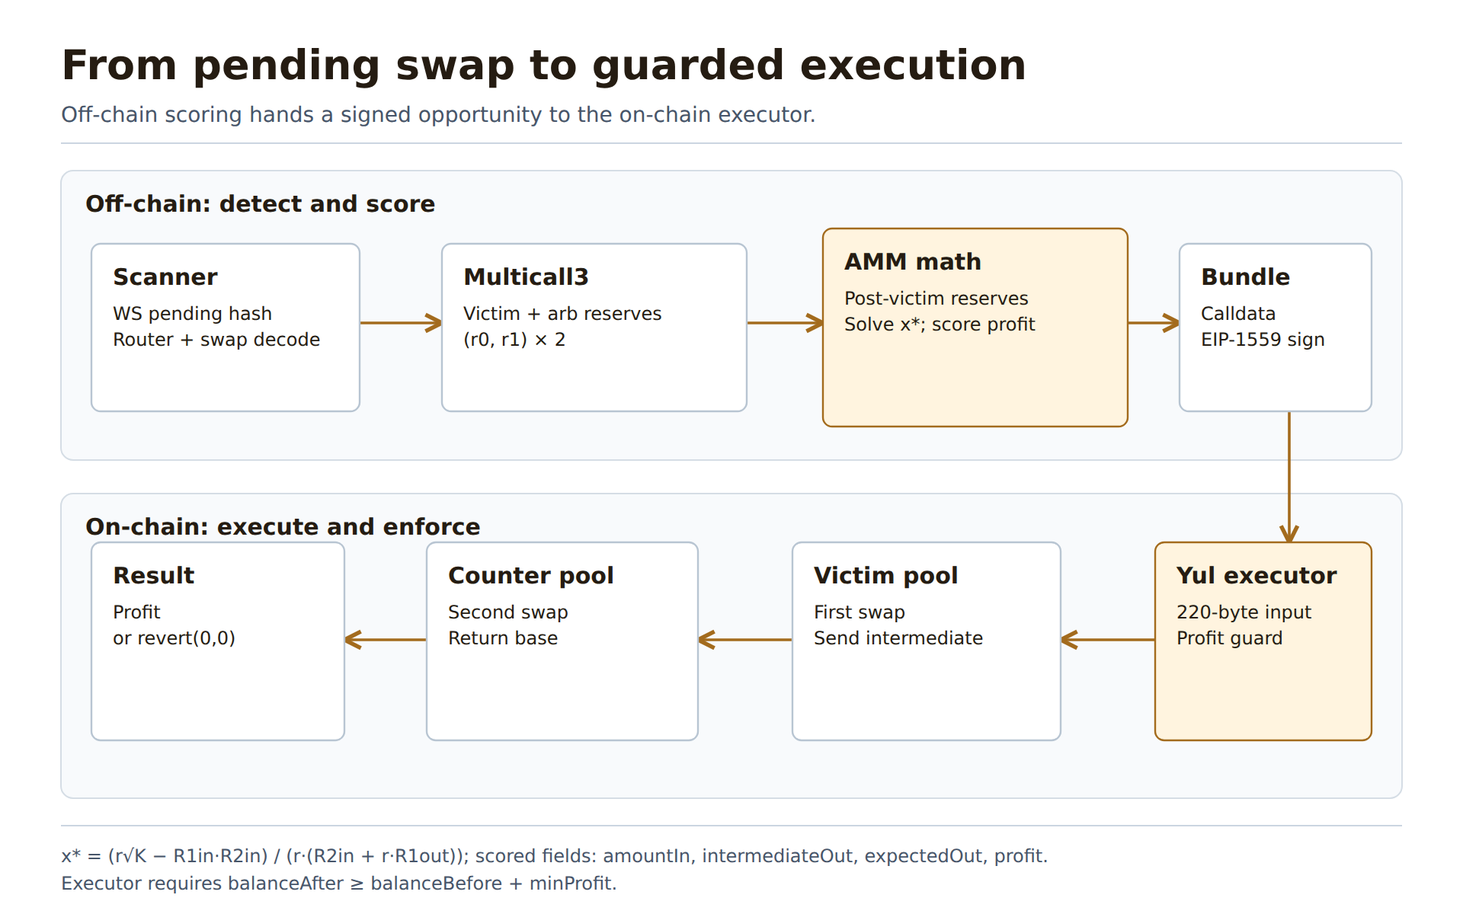
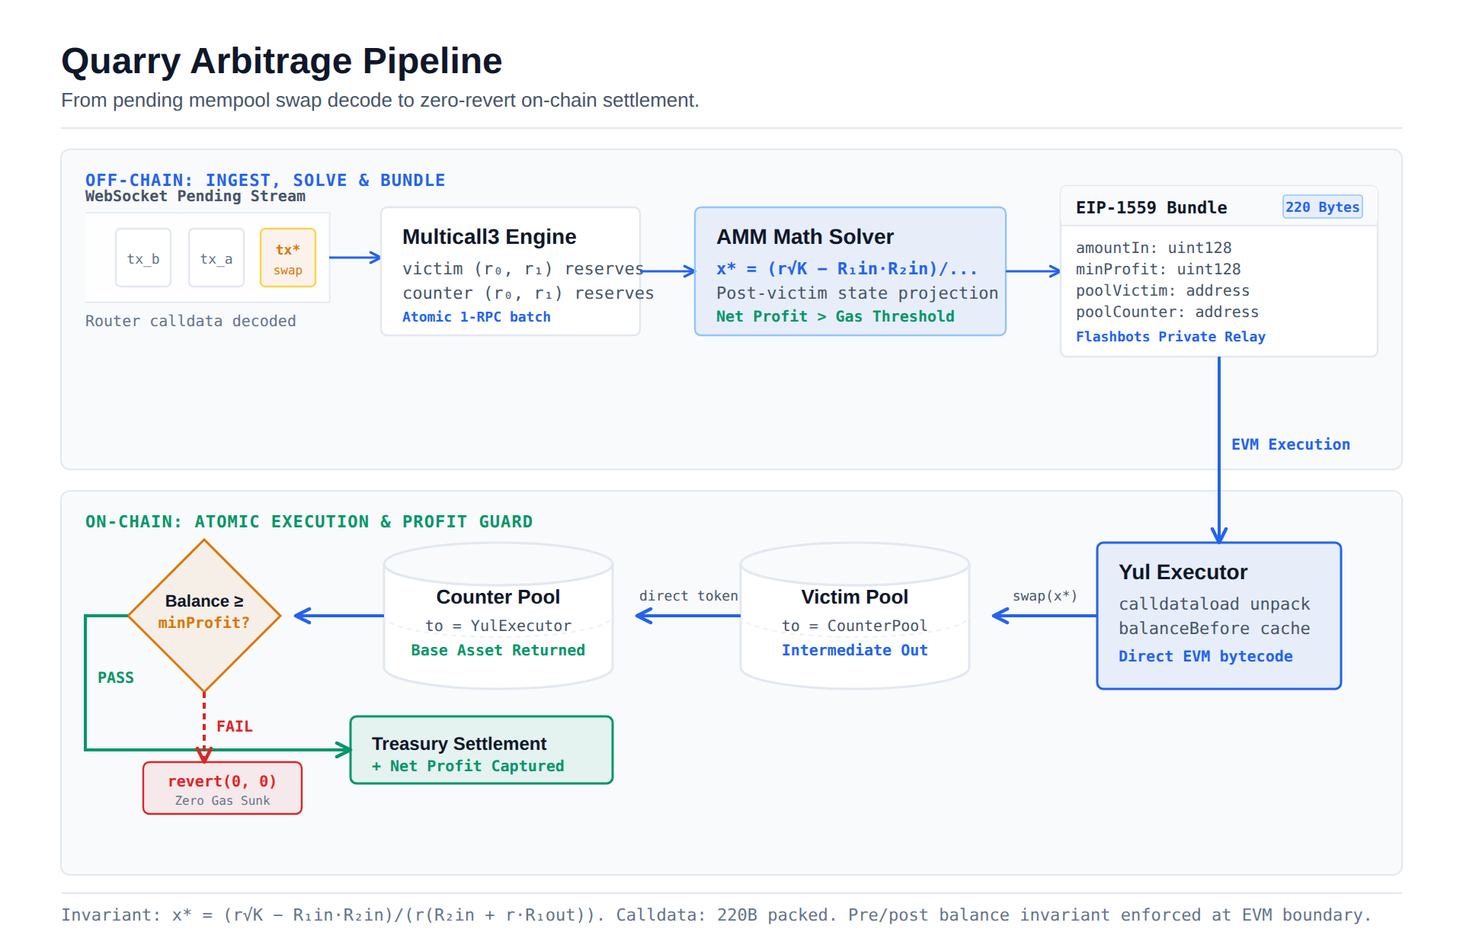
docs(diagrams): redesign arbitrage execution flow
Redesign the arbitrage execution flow diagram with semantic primitives
and dual-theme support.

Replaces the generic card grid with a loopback pipeline that captures
the mempool FIFO queue, multicall reserve synchronization, AMM math
solver, 220-byte packed calldata schema, pool vaults, and the explicit
profit guard decision diamond with its atomic revert branch.

diff --git a/assets/diagrams/arbitrage-flow.html b/assets/diagrams/arbitrage-flow.html
@@ -1,58 +1,292 @@
 <!doctype html>
-<html lang="en"><head><meta charset="utf-8"><meta name="viewport" content="width=device-width, initial-scale=1"><title>From pending swap to guarded execution</title>
-<style>body{margin:0;padding:24px;background:#F8FAFC;color:#251C12;font-family:system-ui,-apple-system,BlinkMacSystemFont,"Segoe UI",sans-serif}main{max-width:960px;min-width:0;margin:0 auto}.figure-scroll{width:100%;overflow-x:auto}svg{display:block;width:100%;min-width:960px}@media print{.figure-scroll{overflow-x:visible}svg{min-width:0}}</style></head>
-<body><main><div class="figure-scroll"><svg xmlns="http://www.w3.org/2000/svg" viewBox="0 0 960 600" role="img" aria-labelledby="arbitrage-flow-title arbitrage-flow-desc">
-<title id="arbitrage-flow-title">From pending swap to guarded execution</title>
-<desc id="arbitrage-flow-desc">Off-chain scoring hands a signed opportunity to the on-chain executor. x* = (r√K − R1in·R2in) / (r·(R2in + r·R1out)); scored fields: amountIn, intermediateOut, expectedOut, profit. Executor requires balanceAfter ≥ balanceBefore + minProfit.</desc>
-<defs><marker id="arbitrage-flow-arrow" viewBox="0 0 8 8" refX="7" refY="4" markerWidth="8" markerHeight="8" orient="auto"><path d="M1 1 L7 4 L1 7" fill="none" stroke="#A36B1D" stroke-width="1.5"/></marker></defs>
-<rect width="960" height="600" fill="#FFFFFF"/>
-<text x="40" y="52" font-size="27" font-weight="700" fill="#251C12">From pending swap to guarded execution</text>
-<text x="40" y="80" font-size="14" font-weight="400" fill="#475569">Off-chain scoring hands a signed opportunity to the on-chain executor.</text>
-<line x1="40" y1="94" x2="920" y2="94" stroke="#CBD5E1"/>
-<rect x="40" y="112" width="880" height="190" rx="8" fill="#F8FAFC" stroke="#D5DDE5"/>
-<rect x="40" y="324" width="880" height="200" rx="8" fill="#F8FAFC" stroke="#D5DDE5"/>
-<path d="M236 212 H290" fill="none" stroke="#A36B1D" stroke-width="1.8" marker-end="url(#arbitrage-flow-arrow)"/>
-<path d="M490 212 H540" fill="none" stroke="#A36B1D" stroke-width="1.8" marker-end="url(#arbitrage-flow-arrow)"/>
-<path d="M740 212 H774" fill="none" stroke="#A36B1D" stroke-width="1.8" marker-end="url(#arbitrage-flow-arrow)"/>
-<path d="M846 270 V356" fill="none" stroke="#A36B1D" stroke-width="1.8" marker-end="url(#arbitrage-flow-arrow)"/>
-<path d="M758 420 H696" fill="none" stroke="#A36B1D" stroke-width="1.8" marker-end="url(#arbitrage-flow-arrow)"/>
-<path d="M520 420 H458" fill="none" stroke="#A36B1D" stroke-width="1.8" marker-end="url(#arbitrage-flow-arrow)"/>
-<path d="M280 420 H226" fill="none" stroke="#A36B1D" stroke-width="1.8" marker-end="url(#arbitrage-flow-arrow)"/>
-<text x="56" y="139" font-size="15" font-weight="700" fill="#251C12">Off-chain: detect and score</text>
-<text x="56" y="351" font-size="15" font-weight="700" fill="#251C12">On-chain: execute and enforce</text>
-<rect x="60" y="160" width="176" height="110" rx="6" fill="#FFFFFF" stroke="#B8C5D2" stroke-width="1.2"/>
-<text x="74" y="187" font-size="15" font-weight="700" fill="#251C12">Scanner</text>
-<text x="74" y="210" font-size="12" font-weight="400" fill="#251C12">WS pending hash</text>
-<text x="74" y="227" font-size="12" font-weight="400" fill="#251C12">Router + swap decode</text>
-<rect x="290" y="160" width="200" height="110" rx="6" fill="#FFFFFF" stroke="#B8C5D2" stroke-width="1.2"/>
-<text x="304" y="187" font-size="15" font-weight="700" fill="#251C12">Multicall3</text>
-<text x="304" y="210" font-size="12" font-weight="400" fill="#251C12">Victim + arb reserves</text>
-<text x="304" y="227" font-size="12" font-weight="400" fill="#251C12">(r0, r1) × 2</text>
-<rect x="540" y="150" width="200" height="130" rx="6" fill="#FFF4DF" stroke="#A36B1D" stroke-width="1.2"/>
-<text x="554" y="177" font-size="15" font-weight="700" fill="#251C12">AMM math</text>
-<text x="554" y="200" font-size="12" font-weight="400" fill="#251C12">Post-victim reserves</text>
-<text x="554" y="217" font-size="12" font-weight="400" fill="#251C12">Solve x*; score profit</text>
-<rect x="774" y="160" width="126" height="110" rx="6" fill="#FFFFFF" stroke="#B8C5D2" stroke-width="1.2"/>
-<text x="788" y="187" font-size="15" font-weight="700" fill="#251C12">Bundle</text>
-<text x="788" y="210" font-size="12" font-weight="400" fill="#251C12">Calldata</text>
-<text x="788" y="227" font-size="12" font-weight="400" fill="#251C12">EIP-1559 sign</text>
-<rect x="758" y="356" width="142" height="130" rx="6" fill="#FFF4DF" stroke="#A36B1D" stroke-width="1.2"/>
-<text x="772" y="383" font-size="15" font-weight="700" fill="#251C12">Yul executor</text>
-<text x="772" y="406" font-size="12" font-weight="400" fill="#251C12">220-byte input</text>
-<text x="772" y="423" font-size="12" font-weight="400" fill="#251C12">Profit guard</text>
-<rect x="520" y="356" width="176" height="130" rx="6" fill="#FFFFFF" stroke="#B8C5D2" stroke-width="1.2"/>
-<text x="534" y="383" font-size="15" font-weight="700" fill="#251C12">Victim pool</text>
-<text x="534" y="406" font-size="12" font-weight="400" fill="#251C12">First swap</text>
-<text x="534" y="423" font-size="12" font-weight="400" fill="#251C12">Send intermediate</text>
-<rect x="280" y="356" width="178" height="130" rx="6" fill="#FFFFFF" stroke="#B8C5D2" stroke-width="1.2"/>
-<text x="294" y="383" font-size="15" font-weight="700" fill="#251C12">Counter pool</text>
-<text x="294" y="406" font-size="12" font-weight="400" fill="#251C12">Second swap</text>
-<text x="294" y="423" font-size="12" font-weight="400" fill="#251C12">Return base</text>
-<rect x="60" y="356" width="166" height="130" rx="6" fill="#FFFFFF" stroke="#B8C5D2" stroke-width="1.2"/>
-<text x="74" y="383" font-size="15" font-weight="700" fill="#251C12">Result</text>
-<text x="74" y="406" font-size="12" font-weight="400" fill="#251C12">Profit</text>
-<text x="74" y="423" font-size="12" font-weight="400" fill="#251C12">or revert(0,0)</text>
-<line x1="40" y1="542" x2="920" y2="542" stroke="#CBD5E1"/>
-<text x="40" y="566" font-size="12" font-weight="400" fill="#475569">x* = (r√K − R1in·R2in) / (r·(R2in + r·R1out)); scored fields: amountIn, intermediateOut, expectedOut, profit.</text>
-<text x="40" y="584" font-size="12" font-weight="400" fill="#475569">Executor requires balanceAfter ≥ balanceBefore + minProfit.</text>
-</svg></div></main></body></html>
+<html lang="en">
+<head>
+  <meta charset="utf-8">
+  <meta name="viewport" content="width=device-width, initial-scale=1">
+  <title>Quarry MEV Pipeline: Pending Swap to Guarded Settlement</title>
+  <style>
+    :root {
+      color-scheme: light;
+      --bg: #FFFFFF;
+      --bg-subtle: #F8FAFC;
+      --panel: #FFFFFF;
+      --panel-border: #E2E8F0;
+      --panel-border-subtle: #EDF2F7;
+      
+      --ink: #0F172A;
+      --ink-secondary: #475569;
+      --ink-muted: #64748B;
+      
+      --primary: #2563EB;
+      --primary-tint: rgba(37, 99, 235, 0.08);
+      --primary-border: #93C5FD;
+      
+      --success: #059669;
+      --success-tint: rgba(5, 150, 105, 0.08);
+      --success-border: #6EE7B7;
+      
+      --error: #DC2626;
+      --error-tint: rgba(220, 38, 38, 0.08);
+      --error-border: #FCA5A5;
+      
+      --warning: #D97706;
+      --warning-tint: rgba(217, 119, 6, 0.08);
+      --warning-border: #FCD34D;
+      
+      --conduit: #64748B;
+      --font-sans: -apple-system, BlinkMacSystemFont, "Segoe UI", Roboto, sans-serif;
+      --font-mono: ui-monospace, "SF Mono", Menlo, Monaco, Consolas, monospace;
+    }
+    @media (prefers-color-scheme: dark) {
+      :root {
+        color-scheme: dark;
+        --bg: #0B0F17;
+        --bg-subtle: #111827;
+        --panel: #161F30;
+        --panel-border: #2D3B55;
+        --panel-border-subtle: #1E293B;
+        
+        --ink: #F8FAFC;
+        --ink-secondary: #CBD5E1;
+        --ink-muted: #94A3B8;
+        
+        --primary: #38BDF8;
+        --primary-tint: rgba(56, 189, 248, 0.12);
+        --primary-border: #0284C7;
+        
+        --success: #34D399;
+        --success-tint: rgba(52, 211, 153, 0.12);
+        --success-border: #059669;
+        
+        --error: #F87171;
+        --error-tint: rgba(248, 113, 113, 0.12);
+        --error-border: #B91C1C;
+        
+        --warning: #FBBF24;
+        --warning-tint: rgba(251, 191, 36, 0.12);
+        --warning-border: #D97706;
+        
+        --conduit: #475569;
+      }
+    }
+    html, body {
+      margin: 0;
+      padding: 0;
+      background: var(--bg);
+      color: var(--ink);
+      font-family: var(--font-sans);
+    }
+    .figure-scroll {
+      max-width: 960px;
+      margin: 20px auto;
+      overflow-x: auto;
+    }
+    svg {
+      display: block;
+      width: 100%;
+      min-width: 960px;
+    }
+    @media print {
+      .figure-scroll { overflow-x: visible; }
+      svg { min-width: 0; }
+    }
+  </style>
+</head>
+<body>
+  <main>
+    <div class="figure-scroll">
+      <svg xmlns="http://www.w3.org/2000/svg" viewBox="0 0 960 620" role="img" aria-labelledby="quarry-title quarry-desc">
+        <title id="quarry-title">Quarry MEV Pipeline: Pending Swap to Guarded Settlement</title>
+        <desc id="quarry-desc">Off-chain detection watches mempool swaps, simulates post-victim reserves via Multicall3, and signs 220-byte packed calldata. The on-chain Yul executor routes hops across AMM pools and enforces balanceAfter >= balanceBefore + minProfit, otherwise invoking revert(0,0).</desc>
+        
+        <defs>
+          <marker id="arrow-primary" viewBox="0 0 8 8" refX="7" refY="4" markerWidth="6" markerHeight="6" orient="auto">
+            <path d="M 1,1 L 7,4 L 1,7" fill="none" stroke="var(--primary)" stroke-width="1.5" stroke-linecap="round" stroke-linejoin="round"/>
+          </marker>
+          <marker id="arrow-success" viewBox="0 0 8 8" refX="7" refY="4" markerWidth="6" markerHeight="6" orient="auto">
+            <path d="M 1,1 L 7,4 L 1,7" fill="none" stroke="var(--success)" stroke-width="1.5" stroke-linecap="round" stroke-linejoin="round"/>
+          </marker>
+          <marker id="arrow-error" viewBox="0 0 8 8" refX="7" refY="4" markerWidth="6" markerHeight="6" orient="auto">
+            <path d="M 1,1 L 7,4 L 1,7" fill="none" stroke="var(--error)" stroke-width="1.5" stroke-linecap="round" stroke-linejoin="round"/>
+          </marker>
+          <marker id="arrow-conduit" viewBox="0 0 8 8" refX="7" refY="4" markerWidth="6" markerHeight="6" orient="auto">
+            <path d="M 1,1 L 7,4 L 1,7" fill="none" stroke="var(--conduit)" stroke-width="1.5" stroke-linecap="round" stroke-linejoin="round"/>
+          </marker>
+        </defs>
+
+        <!-- Canvas Background -->
+        <rect width="960" height="620" fill="var(--bg)"/>
+
+        <!-- Header -->
+        <text x="40" y="48" font-size="24" font-weight="700" fill="var(--ink)">Quarry Arbitrage Pipeline</text>
+        <text x="40" y="70" font-size="13" font-weight="400" fill="var(--ink-secondary)">From pending mempool swap decode to zero-revert on-chain settlement.</text>
+        <line x1="40" y1="84" x2="920" y2="84" stroke="var(--panel-border)" stroke-width="1"/>
+
+        <!-- Boundary Containers -->
+        <!-- Tier 1: Off-Chain Detection & Solving -->
+        <rect x="40" y="98" width="880" height="210" rx="6" fill="var(--bg-subtle)" stroke="var(--panel-border)" stroke-width="1"/>
+        <text x="56" y="122" font-family="var(--font-mono)" font-size="11" font-weight="700" fill="var(--primary)" letter-spacing="0.05em">OFF-CHAIN: INGEST, SOLVE & BUNDLE</text>
+
+        <!-- Tier 2: On-Chain Atomic Execution & Settlement -->
+        <rect x="40" y="322" width="880" height="252" rx="6" fill="var(--bg-subtle)" stroke="var(--panel-border)" stroke-width="1"/>
+        <text x="56" y="346" font-family="var(--font-mono)" font-size="11" font-weight="700" fill="var(--success)" letter-spacing="0.05em">ON-CHAIN: ATOMIC EXECUTION & PROFIT GUARD</text>
+
+        <!-- ==================== OFF-CHAIN COMPONENTS ==================== -->
+
+        <!-- 1. Mempool Queue Primitive (x: 56, y: 140) -->
+        <g transform="translate(56, 140)">
+          <path d="M 0,0 H 160 V 58 H 0" fill="none" stroke="var(--panel-border)" stroke-width="1.5" />
+          <rect x="0" y="0" width="160" height="58" fill="var(--panel)" stroke="none" opacity="0.8"/>
+          <!-- Message items -->
+          <rect x="115" y="10" width="36" height="38" rx="3" fill="var(--warning-tint)" stroke="var(--warning-border)" stroke-width="1.2" />
+          <text x="133" y="27" text-anchor="middle" font-family="var(--font-mono)" font-size="9" font-weight="700" fill="var(--warning)">tx*</text>
+          <text x="133" y="40" text-anchor="middle" font-family="var(--font-mono)" font-size="8" fill="var(--warning)">swap</text>
+
+          <rect x="68" y="10" width="36" height="38" rx="3" fill="var(--panel)" stroke="var(--panel-border)" stroke-width="1.2" />
+          <text x="86" y="33" text-anchor="middle" font-family="var(--font-mono)" font-size="9" fill="var(--ink-muted)">tx_a</text>
+
+          <rect x="20" y="10" width="36" height="38" rx="3" fill="var(--panel)" stroke="var(--panel-border)" stroke-width="1.2" />
+          <text x="38" y="33" text-anchor="middle" font-family="var(--font-mono)" font-size="9" fill="var(--ink-muted)">tx_b</text>
+
+          <text x="0" y="-8" font-family="var(--font-mono)" font-size="10" font-weight="600" fill="var(--ink-secondary)">WebSocket Pending Stream</text>
+          <text x="0" y="74" font-family="var(--font-mono)" font-size="10" fill="var(--ink-muted)">Router calldata decoded</text>
+        </g>
+
+        <!-- Connector: Mempool to Multicall -->
+        <path d="M 216,169 H 250" fill="none" stroke="var(--primary)" stroke-width="1.5" marker-end="url(#arrow-primary)"/>
+
+        <!-- 2. Multicall3 State Sync (x: 250, y: 136) -->
+        <g transform="translate(250, 136)">
+          <rect x="0" y="0" width="170" height="84" rx="4" fill="var(--panel)" stroke="var(--panel-border)" stroke-width="1.2"/>
+          <text x="14" y="24" font-family="var(--font-sans)" font-size="14" font-weight="700" fill="var(--ink)">Multicall3 Engine</text>
+          <text x="14" y="44" font-family="var(--font-mono)" font-size="11" fill="var(--ink-secondary)">victim (r₀, r₁) reserves</text>
+          <text x="14" y="60" font-family="var(--font-mono)" font-size="11" fill="var(--ink-secondary)">counter (r₀, r₁) reserves</text>
+          <text x="14" y="75" font-family="var(--font-mono)" font-size="9" font-weight="600" fill="var(--primary)">Atomic 1-RPC batch</text>
+        </g>
+
+        <!-- Connector: Multicall to AMM Math Solver -->
+        <path d="M 420,178 H 456" fill="none" stroke="var(--primary)" stroke-width="1.5" marker-end="url(#arrow-primary)"/>
+
+        <!-- 3. AMM Math Analytical Solver (x: 456, y: 136) -->
+        <g transform="translate(456, 136)">
+          <rect x="0" y="0" width="204" height="84" rx="4" fill="var(--primary-tint)" stroke="var(--primary-border)" stroke-width="1.2"/>
+          <text x="14" y="24" font-family="var(--font-sans)" font-size="14" font-weight="700" fill="var(--ink)">AMM Math Solver</text>
+          <text x="14" y="44" font-family="var(--font-mono)" font-size="11" font-weight="600" fill="var(--primary)">x* = (r√K − R₁in·R₂in)/...</text>
+          <text x="14" y="60" font-family="var(--font-mono)" font-size="11" fill="var(--ink-secondary)">Post-victim state projection</text>
+          <text x="14" y="75" font-family="var(--font-mono)" font-size="10" font-weight="700" fill="var(--success)">Net Profit &gt; Gas Threshold</text>
+        </g>
+
+        <!-- Connector: AMM Math to Bundle Signer -->
+        <path d="M 660,178 H 696" fill="none" stroke="var(--primary)" stroke-width="1.5" marker-end="url(#arrow-primary)"/>
+
+        <!-- 4. Bundle Signer & Calldata Contract (x: 696, y: 122) -->
+        <g transform="translate(696, 122)">
+          <rect x="0" y="0" width="208" height="112" rx="4" fill="var(--panel)" stroke="var(--panel-border)" stroke-width="1.2"/>
+          <rect x="0" y="0" width="208" height="26" rx="4" fill="var(--bg-subtle)" stroke="none"/>
+          <line x1="0" y1="26" x2="208" y2="26" stroke="var(--panel-border)" stroke-width="1"/>
+          
+          <text x="10" y="18" font-family="var(--font-mono)" font-size="11" font-weight="700" fill="var(--ink)">EIP-1559 Bundle</text>
+          <rect x="146" y="6" width="52" height="15" rx="2" fill="var(--primary-tint)" stroke="var(--primary-border)" stroke-width="0.8"/>
+          <text x="172" y="17" text-anchor="middle" font-family="var(--font-mono)" font-size="9" font-weight="700" fill="var(--primary)">220 Bytes</text>
+
+          <!-- Schema contract fields -->
+          <text x="10" y="44" font-family="var(--font-mono)" font-size="10" fill="var(--ink-secondary)">amountIn: uint128</text>
+          <text x="10" y="58" font-family="var(--font-mono)" font-size="10" fill="var(--ink-secondary)">minProfit: uint128</text>
+          <text x="10" y="72" font-family="var(--font-mono)" font-size="10" fill="var(--ink-secondary)">poolVictim: address</text>
+          <text x="10" y="86" font-family="var(--font-mono)" font-size="10" fill="var(--ink-secondary)">poolCounter: address</text>
+          <text x="10" y="102" font-family="var(--font-mono)" font-size="9" font-weight="600" fill="var(--primary)">Flashbots Private Relay</text>
+        </g>
+
+        <!-- Boundary Transit Conduit: Off-Chain to On-Chain -->
+        <path d="M 800,234 V 356" fill="none" stroke="var(--primary)" stroke-width="2" marker-end="url(#arrow-primary)"/>
+        <text x="808" y="295" font-family="var(--font-mono)" font-size="10" font-weight="700" fill="var(--primary)">EVM Execution</text>
+
+        <!-- ==================== ON-CHAIN COMPONENTS ==================== -->
+
+        <!-- 5. Yul Executor Contract (x: 720, y: 356) -->
+        <g transform="translate(720, 356)">
+          <rect x="0" y="0" width="160" height="96" rx="4" fill="var(--primary-tint)" stroke="var(--primary)" stroke-width="1.5"/>
+          <text x="14" y="24" font-family="var(--font-sans)" font-size="14" font-weight="700" fill="var(--ink)">Yul Executor</text>
+          <text x="14" y="44" font-family="var(--font-mono)" font-size="11" fill="var(--ink-secondary)">calldataload unpack</text>
+          <text x="14" y="60" font-family="var(--font-mono)" font-size="11" fill="var(--ink-secondary)">balanceBefore cache</text>
+          <text x="14" y="78" font-family="var(--font-mono)" font-size="10" font-weight="600" fill="var(--primary)">Direct EVM bytecode</text>
+        </g>
+
+        <!-- Hop 1 Conduit: Yul to Pool 1 -->
+        <path d="M 720,404 H 652" fill="none" stroke="var(--primary)" stroke-width="2" marker-end="url(#arrow-primary)"/>
+        <text x="686" y="394" text-anchor="middle" font-family="var(--font-mono)" font-size="9" fill="var(--ink-secondary)">swap(x*)</text>
+
+        <!-- 6. Pool 1 Cylinder Primitive: Victim AMM Pool (x: 486, y: 356) -->
+        <g transform="translate(486, 356)">
+          <!-- Cylinder body: 150x96 -->
+          <path d="M 0,14 A 75,14 0 0,0 150,14 V 82 A 75,14 0 0,1 0,82 Z" 
+                fill="var(--panel)" stroke="var(--panel-border)" stroke-width="1.5" />
+          <path d="M 0,48 A 75,14 0 0,0 150,48" 
+                fill="none" stroke="var(--panel-border-subtle)" stroke-width="1.2" stroke-dasharray="3 3" />
+          <ellipse cx="75" cy="14" rx="75" ry="14" 
+                   fill="var(--bg-subtle)" stroke="var(--panel-border)" stroke-width="1.5" />
+          <text x="75" y="40" text-anchor="middle" font-family="var(--font-sans)" font-size="13" font-weight="700" fill="var(--ink)">Victim Pool</text>
+          <text x="75" y="58" text-anchor="middle" font-family="var(--font-mono)" font-size="10" fill="var(--ink-secondary)">to = CounterPool</text>
+          <text x="75" y="74" text-anchor="middle" font-family="var(--font-mono)" font-size="10" font-weight="600" fill="var(--primary)">Intermediate Out</text>
+        </g>
+
+        <!-- Hop 2 Conduit: Pool 1 to Pool 2 -->
+        <path d="M 486,404 H 418" fill="none" stroke="var(--primary)" stroke-width="2" marker-end="url(#arrow-primary)"/>
+        <text x="452" y="394" text-anchor="middle" font-family="var(--font-mono)" font-size="9" fill="var(--ink-secondary)">direct token</text>
+
+        <!-- 7. Pool 2 Cylinder Primitive: Counter AMM Pool (x: 252, y: 356) -->
+        <g transform="translate(252, 356)">
+          <!-- Cylinder body: 150x96 -->
+          <path d="M 0,14 A 75,14 0 0,0 150,14 V 82 A 75,14 0 0,1 0,82 Z" 
+                fill="var(--panel)" stroke="var(--panel-border)" stroke-width="1.5" />
+          <path d="M 0,48 A 75,14 0 0,0 150,48" 
+                fill="none" stroke="var(--panel-border-subtle)" stroke-width="1.2" stroke-dasharray="3 3" />
+          <ellipse cx="75" cy="14" rx="75" ry="14" 
+                   fill="var(--bg-subtle)" stroke="var(--panel-border)" stroke-width="1.5" />
+          <text x="75" y="40" text-anchor="middle" font-family="var(--font-sans)" font-size="13" font-weight="700" fill="var(--ink)">Counter Pool</text>
+          <text x="75" y="58" text-anchor="middle" font-family="var(--font-mono)" font-size="10" fill="var(--ink-secondary)">to = YulExecutor</text>
+          <text x="75" y="74" text-anchor="middle" font-family="var(--font-mono)" font-size="10" font-weight="600" fill="var(--success)">Base Asset Returned</text>
+        </g>
+
+        <!-- Conduit to Guard Knot -->
+        <path d="M 252,404 H 194" fill="none" stroke="var(--primary)" stroke-width="2" marker-end="url(#arrow-primary)"/>
+
+        <!-- 8. Profit Guard Decision Diamond (x: 84, y: 354) -->
+        <g transform="translate(84, 354)">
+          <!-- Diamond 100x100 centered around (50, 50) -->
+          <path d="M 50,0 L 100,50 L 50,100 L 0,50 Z" 
+                fill="var(--warning-tint)" stroke="var(--warning)" stroke-width="1.5" />
+          <text x="50" y="44" text-anchor="middle" font-family="var(--font-sans)" font-size="11" font-weight="700" fill="var(--ink)">Balance ≥</text>
+          <text x="50" y="58" text-anchor="middle" font-family="var(--font-mono)" font-size="10" font-weight="600" fill="var(--warning)">minProfit?</text>
+        </g>
+
+        <!-- PASS / SETTLE LOOP (Left & Up to Treasury / Settled State) -->
+        <path d="M 84,404 H 56 V 492 H 230" fill="none" stroke="var(--success)" stroke-width="2" marker-end="url(#arrow-success)"/>
+        <text x="64" y="448" font-family="var(--font-mono)" font-size="10" font-weight="700" fill="var(--success)">PASS</text>
+
+        <!-- Settle Node (x: 230, y: 470) -->
+        <g transform="translate(230, 470)">
+          <rect x="0" y="0" width="172" height="44" rx="4" fill="var(--success-tint)" stroke="var(--success)" stroke-width="1.5"/>
+          <text x="14" y="22" font-family="var(--font-sans)" font-size="12" font-weight="700" fill="var(--ink)">Treasury Settlement</text>
+          <text x="14" y="36" font-family="var(--font-mono)" font-size="10" font-weight="600" fill="var(--success)">+ Net Profit Captured</text>
+        </g>
+
+        <!-- FAIL / REVERT ESCAPE BRANCH (Straight Down) -->
+        <path d="M 134,454 V 500" fill="none" stroke="var(--error)" stroke-width="2" stroke-dasharray="4 3" marker-end="url(#arrow-error)"/>
+        <text x="142" y="480" font-family="var(--font-mono)" font-size="10" font-weight="700" fill="var(--error)">FAIL</text>
+
+        <!-- Revert Node (x: 94, y: 500) -->
+        <g transform="translate(94, 500)">
+          <rect x="0" y="0" width="104" height="34" rx="4" fill="var(--error-tint)" stroke="var(--error)" stroke-width="1.2"/>
+          <text x="52" y="16" text-anchor="middle" font-family="var(--font-mono)" font-size="10" font-weight="700" fill="var(--error)">revert(0, 0)</text>
+          <text x="52" y="28" text-anchor="middle" font-family="var(--font-mono)" font-size="8" fill="var(--ink-muted)">Zero Gas Sunk</text>
+        </g>
+
+        <!-- Footnote / Formula line -->
+        <line x1="40" y1="586" x2="920" y2="586" stroke="var(--panel-border)" stroke-width="1"/>
+        <text x="40" y="604" font-size="11" font-family="var(--font-mono)" fill="var(--ink-muted)">Invariant: x* = (r√K − R₁in·R₂in)/(r(R₂in + r·R₁out)). Calldata: 220B packed. Pre/post balance invariant enforced at EVM boundary.</text>
+      </svg>
+    </div>
+  </main>
+</body>
+</html>

diff --git a/README.md b/README.md
@@ -25,7 +25,10 @@ Quarry operates as a hybrid MEV arbitrage engine. A TypeScript scanner watches E
 
 ## How it works
 
-![Quarry arbitrage scoring and guarded execution](assets/diagrams/arbitrage-flow.png)
+<picture>
+  <source media="(prefers-color-scheme: dark)" srcset="assets/diagrams/arbitrage-flow-dark.png">
+  <img src="assets/diagrams/arbitrage-flow.png" alt="Quarry arbitrage scoring and guarded execution">
+</picture>
 
 The scanner decodes a pending swap, reads both pools through Multicall3, and scores the post-victim reserves. A signed EIP-1559 bundle sends packed 220-byte calldata to the Yul executor. The executor swaps on the victim pool with `to=Pool2`, then swaps on the counter pool with `to=this`. The call returns profit only if the final balance covers `minProfit`; otherwise it reverts. [Editable HTML source](assets/diagrams/arbitrage-flow.html).
 
